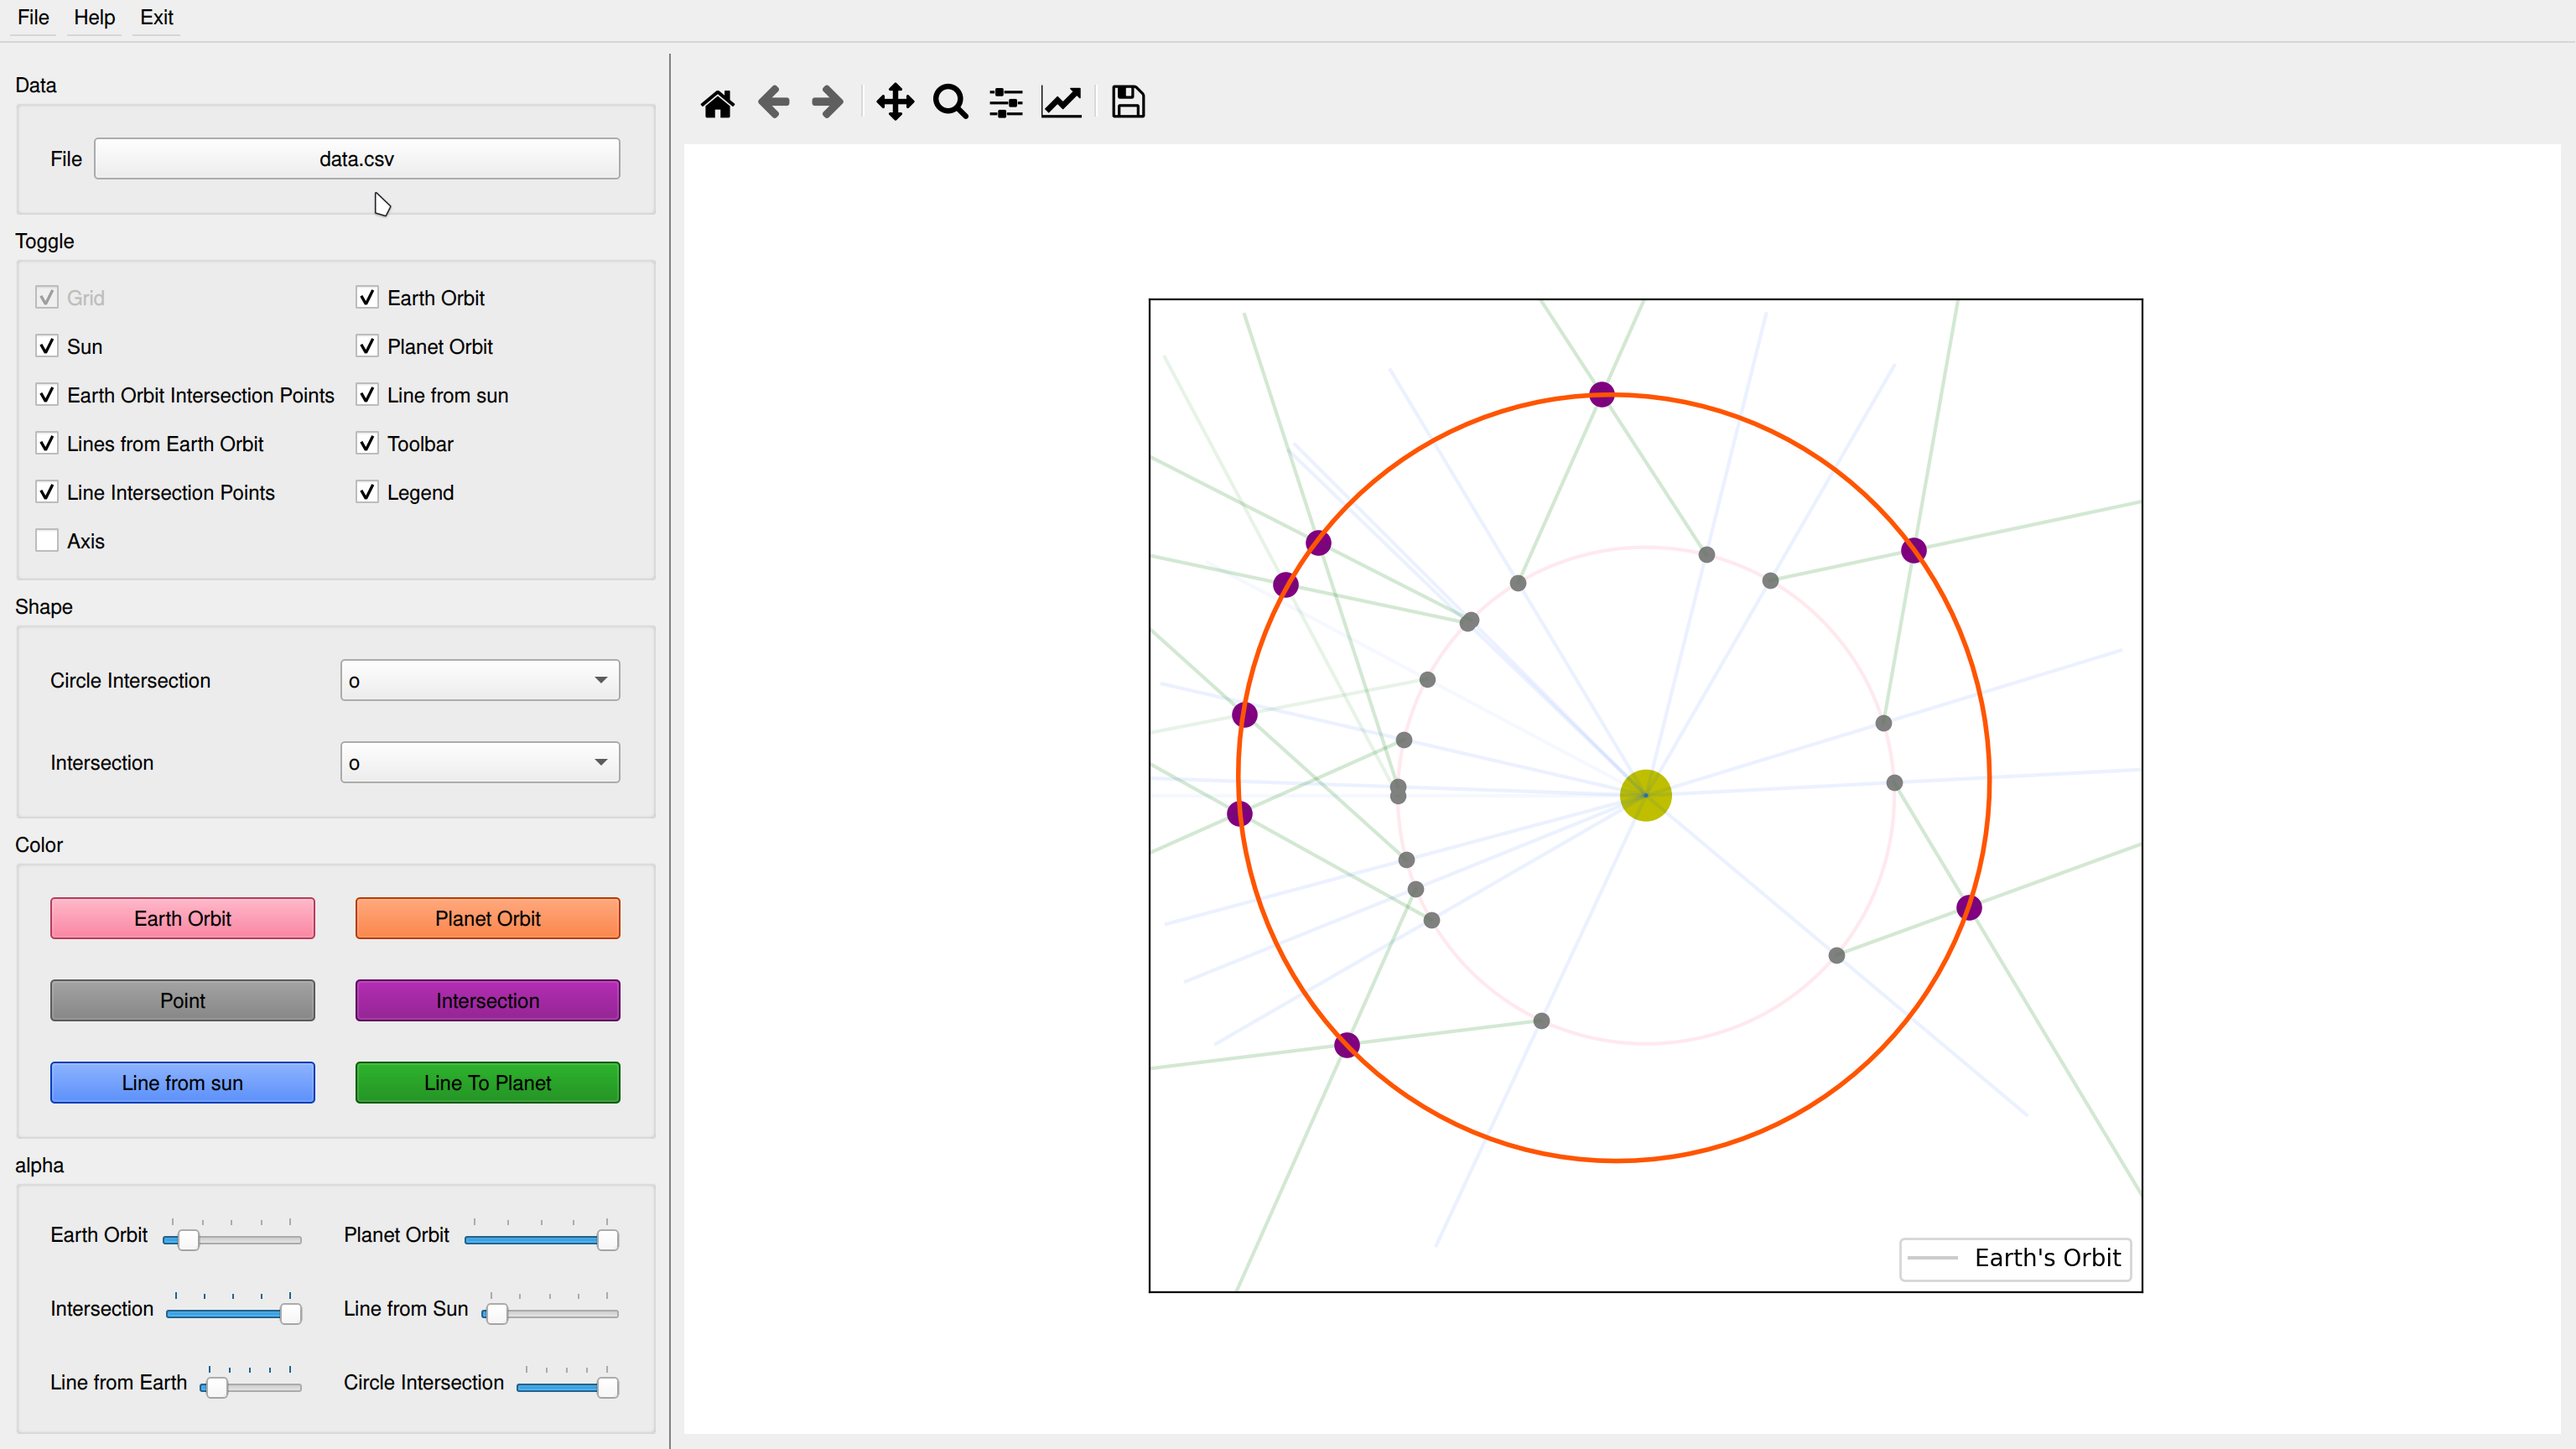
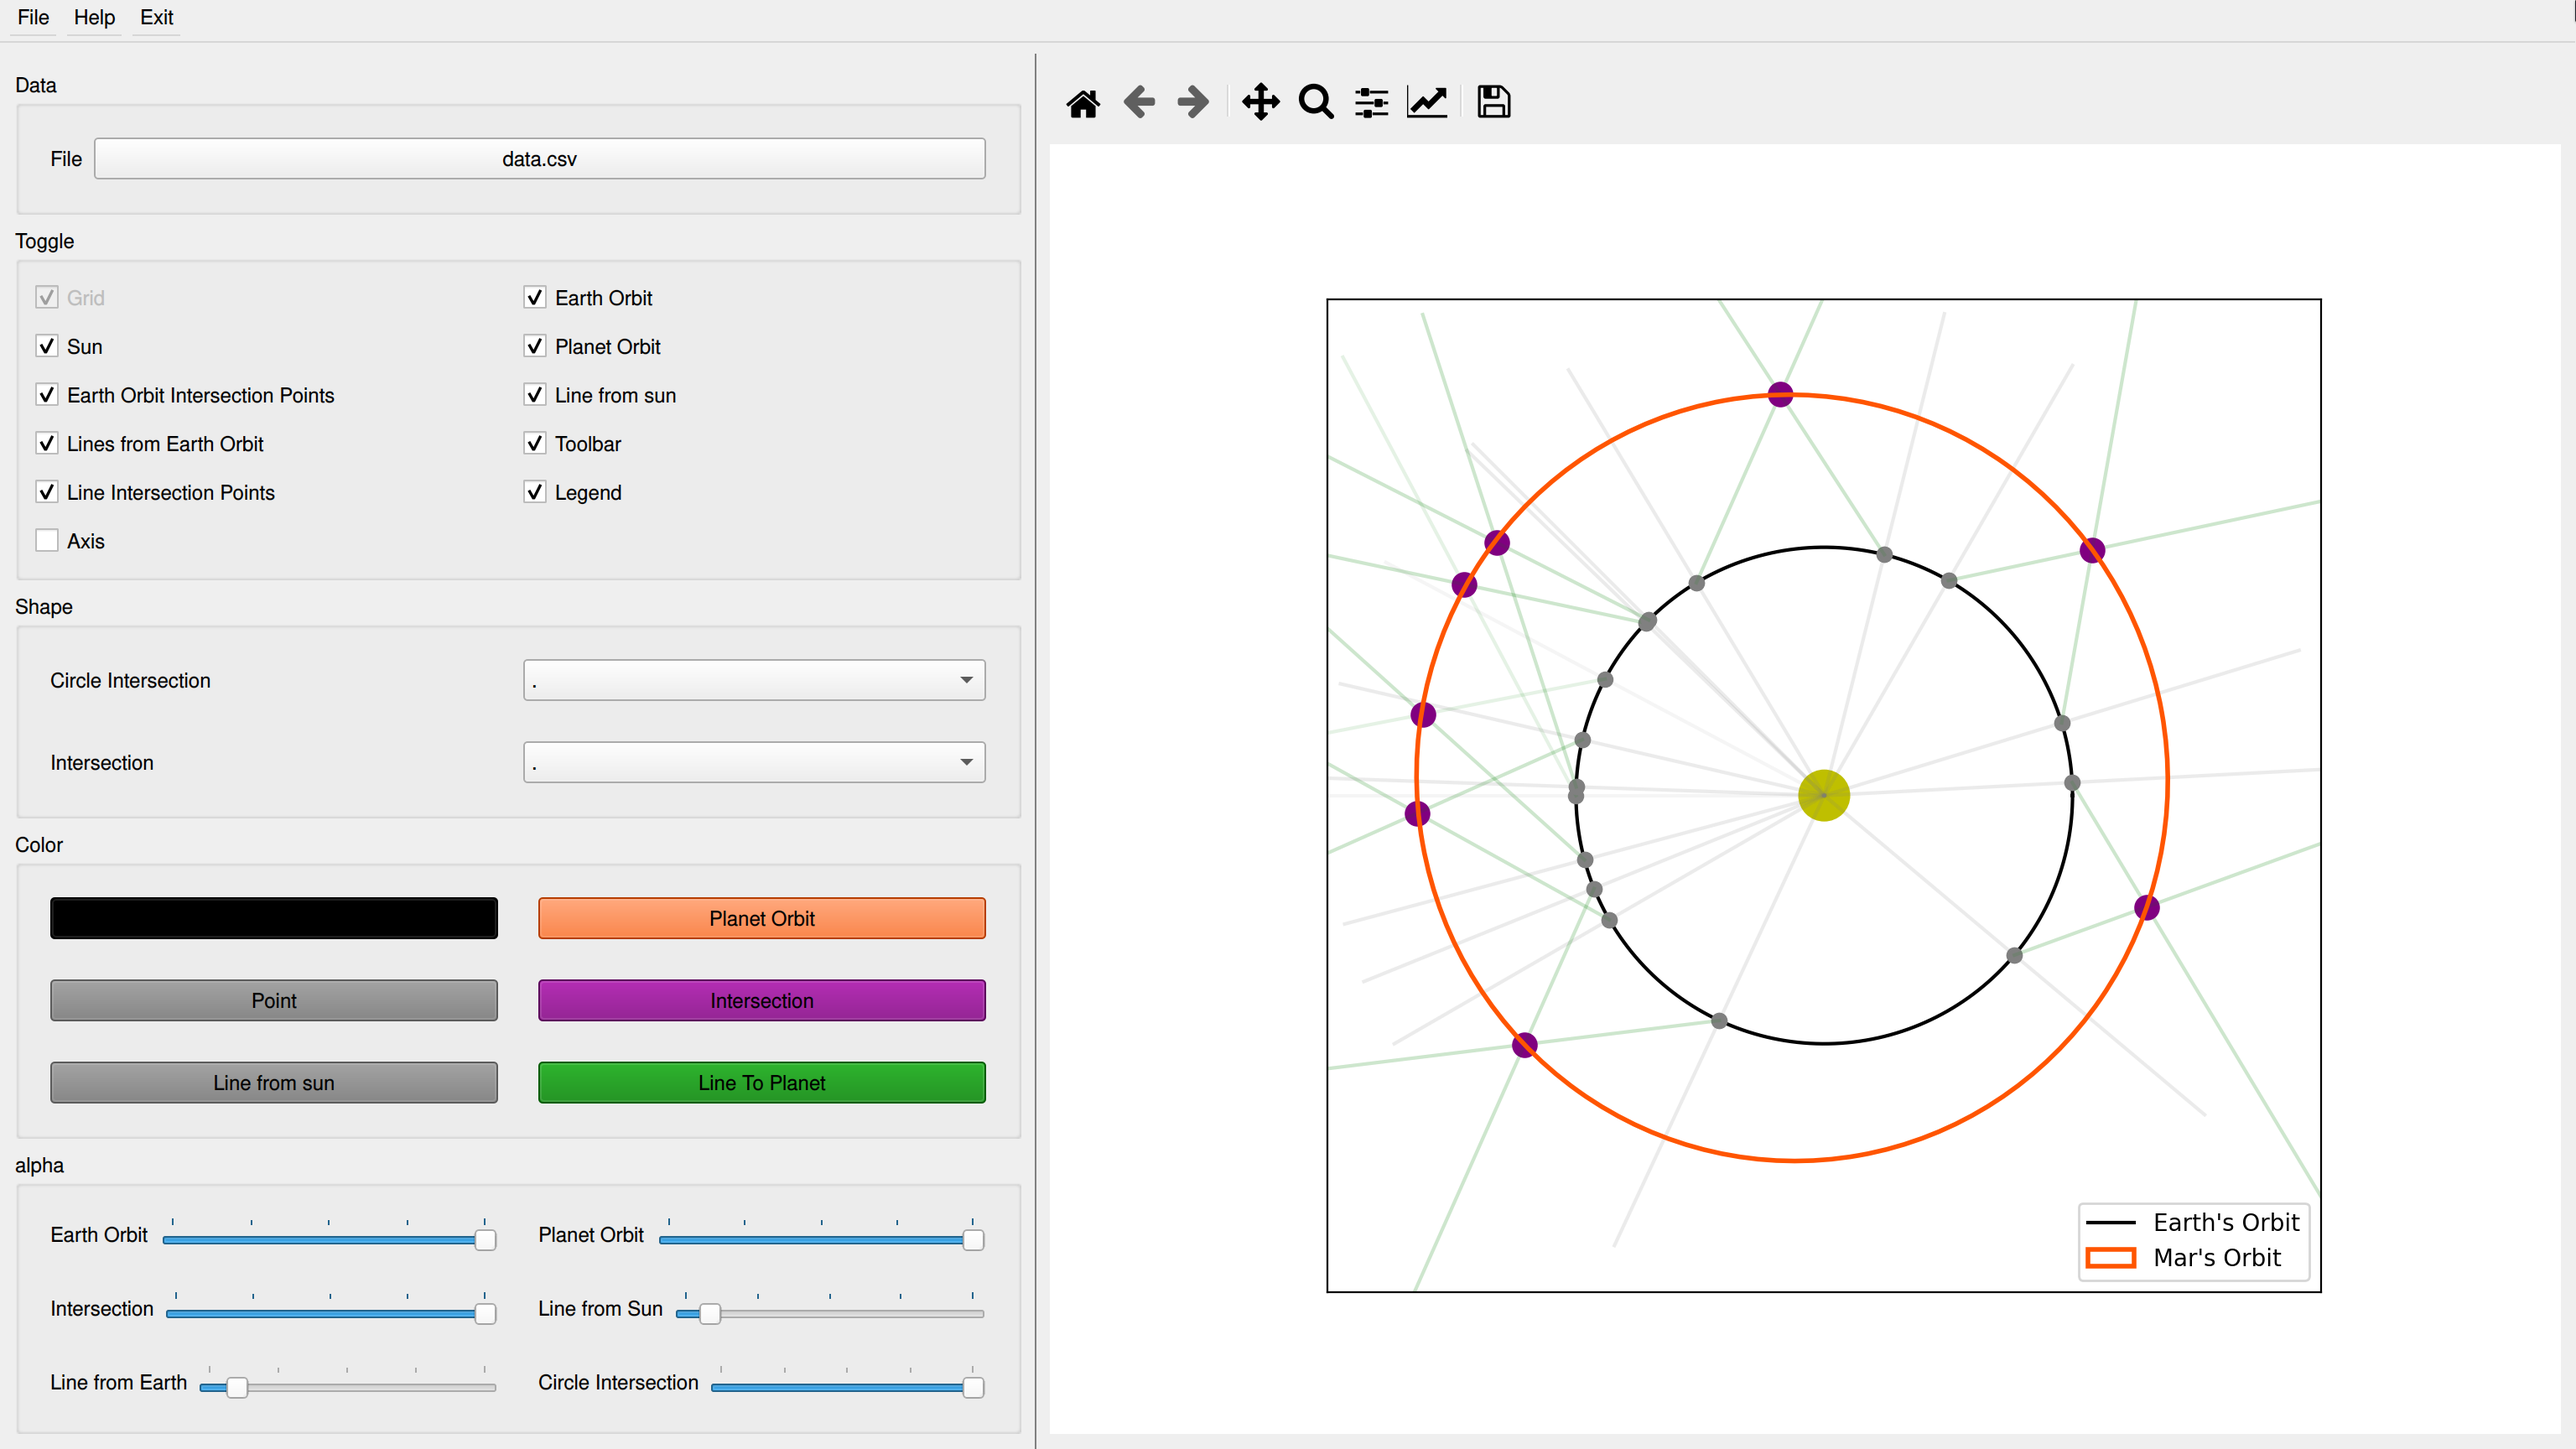
updated screenshots

diff --git a/KeplerGUI.py b/KeplerGUI.py
@@ -162,6 +162,7 @@ class Kepler:
     def change_earth_orbit_color(self, color):
         self.color_earth_orbit = color
         self.earthorbit[0].set_color(color)
+        self.ax.legend()
         self.fig.canvas.draw()
 
     def change_intersection_point_color(self, color):
@@ -189,6 +190,7 @@ class Kepler:
             self.planetOrbit.set_edgecolor(color)
         except AttributeError:
             pass
+        self.ax.legend()
         self.fig.canvas.draw()
 
     def change_line_from_earth_color(self, color):
@@ -213,6 +215,7 @@ class Kepler:
         value = value / 100
         self.alpha_earth_orbit = value
         self.earthorbit[0].set_alpha(value)
+        self.ax.legend()
         self.fig.canvas.draw()
 
     def change_planet_orbit_alpha(self, value):
@@ -220,6 +223,7 @@ class Kepler:
         self.alpha_planet_orbit = value
         try:
             self.planetOrbit.set_alpha(value)
+            self.ax.legend()
             self.fig.canvas.draw()
         except AttributeError:
             pass
@@ -548,6 +552,8 @@ class SideBar(QWidget):
         self.cbx_line_from_sun.setEnabled(True)
         self.cbx_intersection_point.setEnabled(True)
         self.cbx_earth_orbit_intersection_point.setEnabled(True)
+        if self.b_legend:
+            self.kepler.ax.legend()
         self.updatecanvas()
 
     def toggle_grid(self, value):
